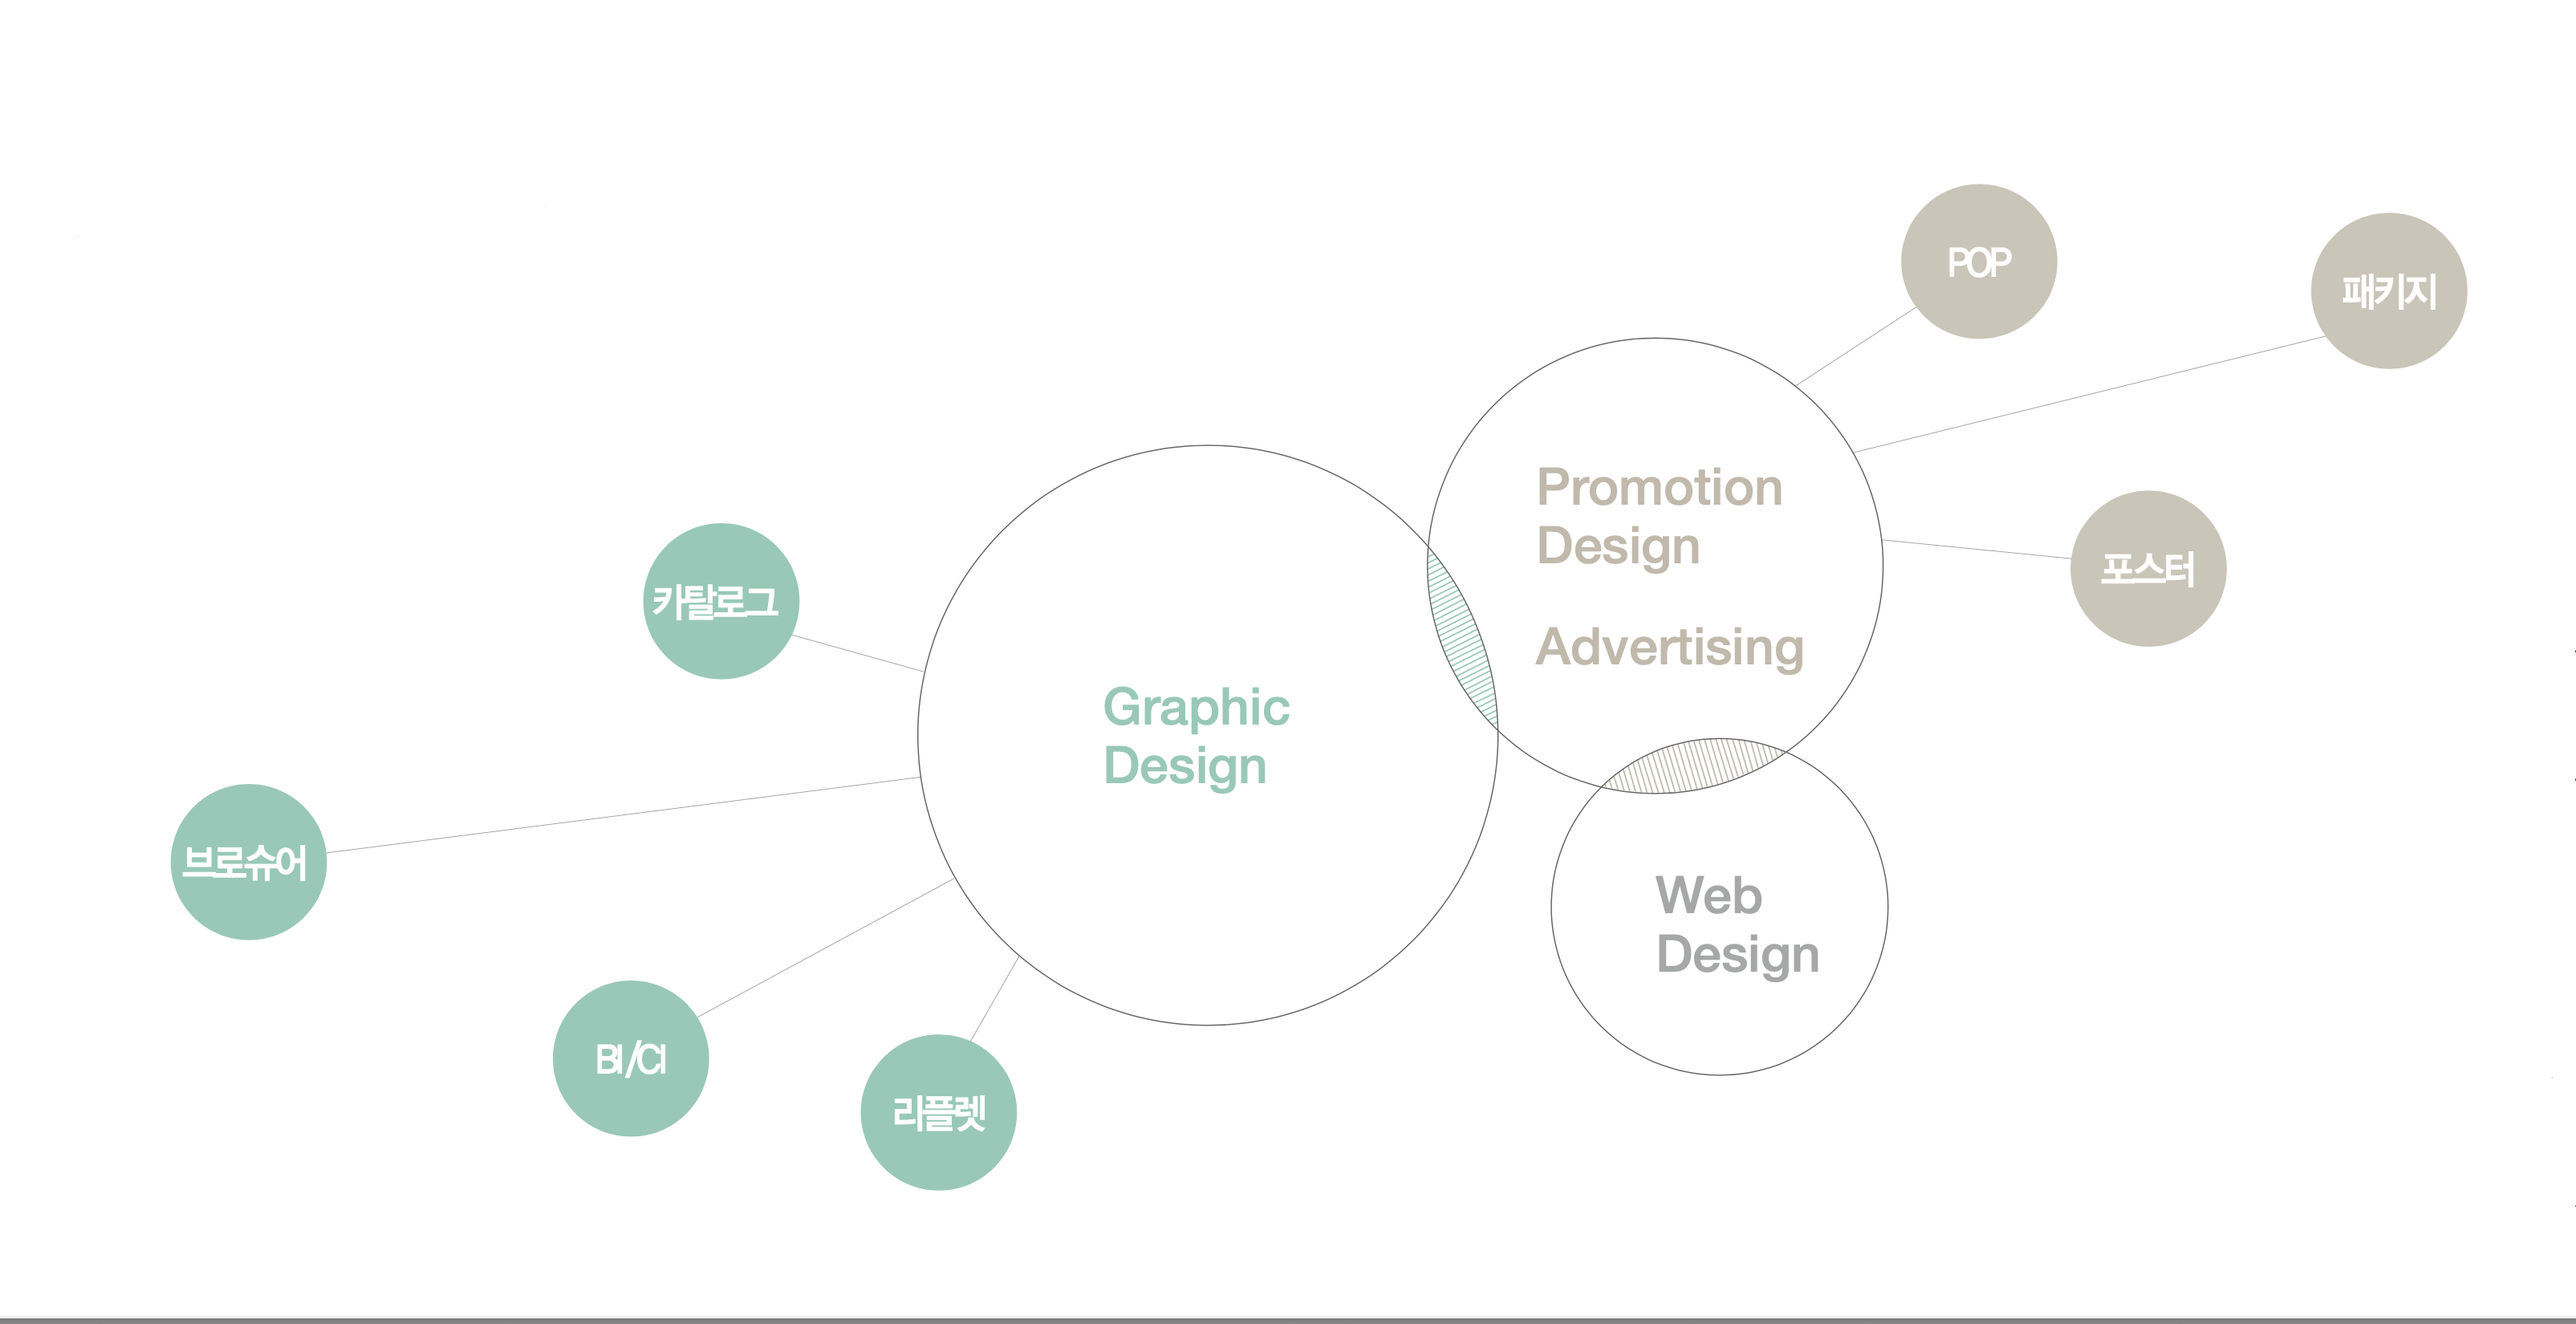
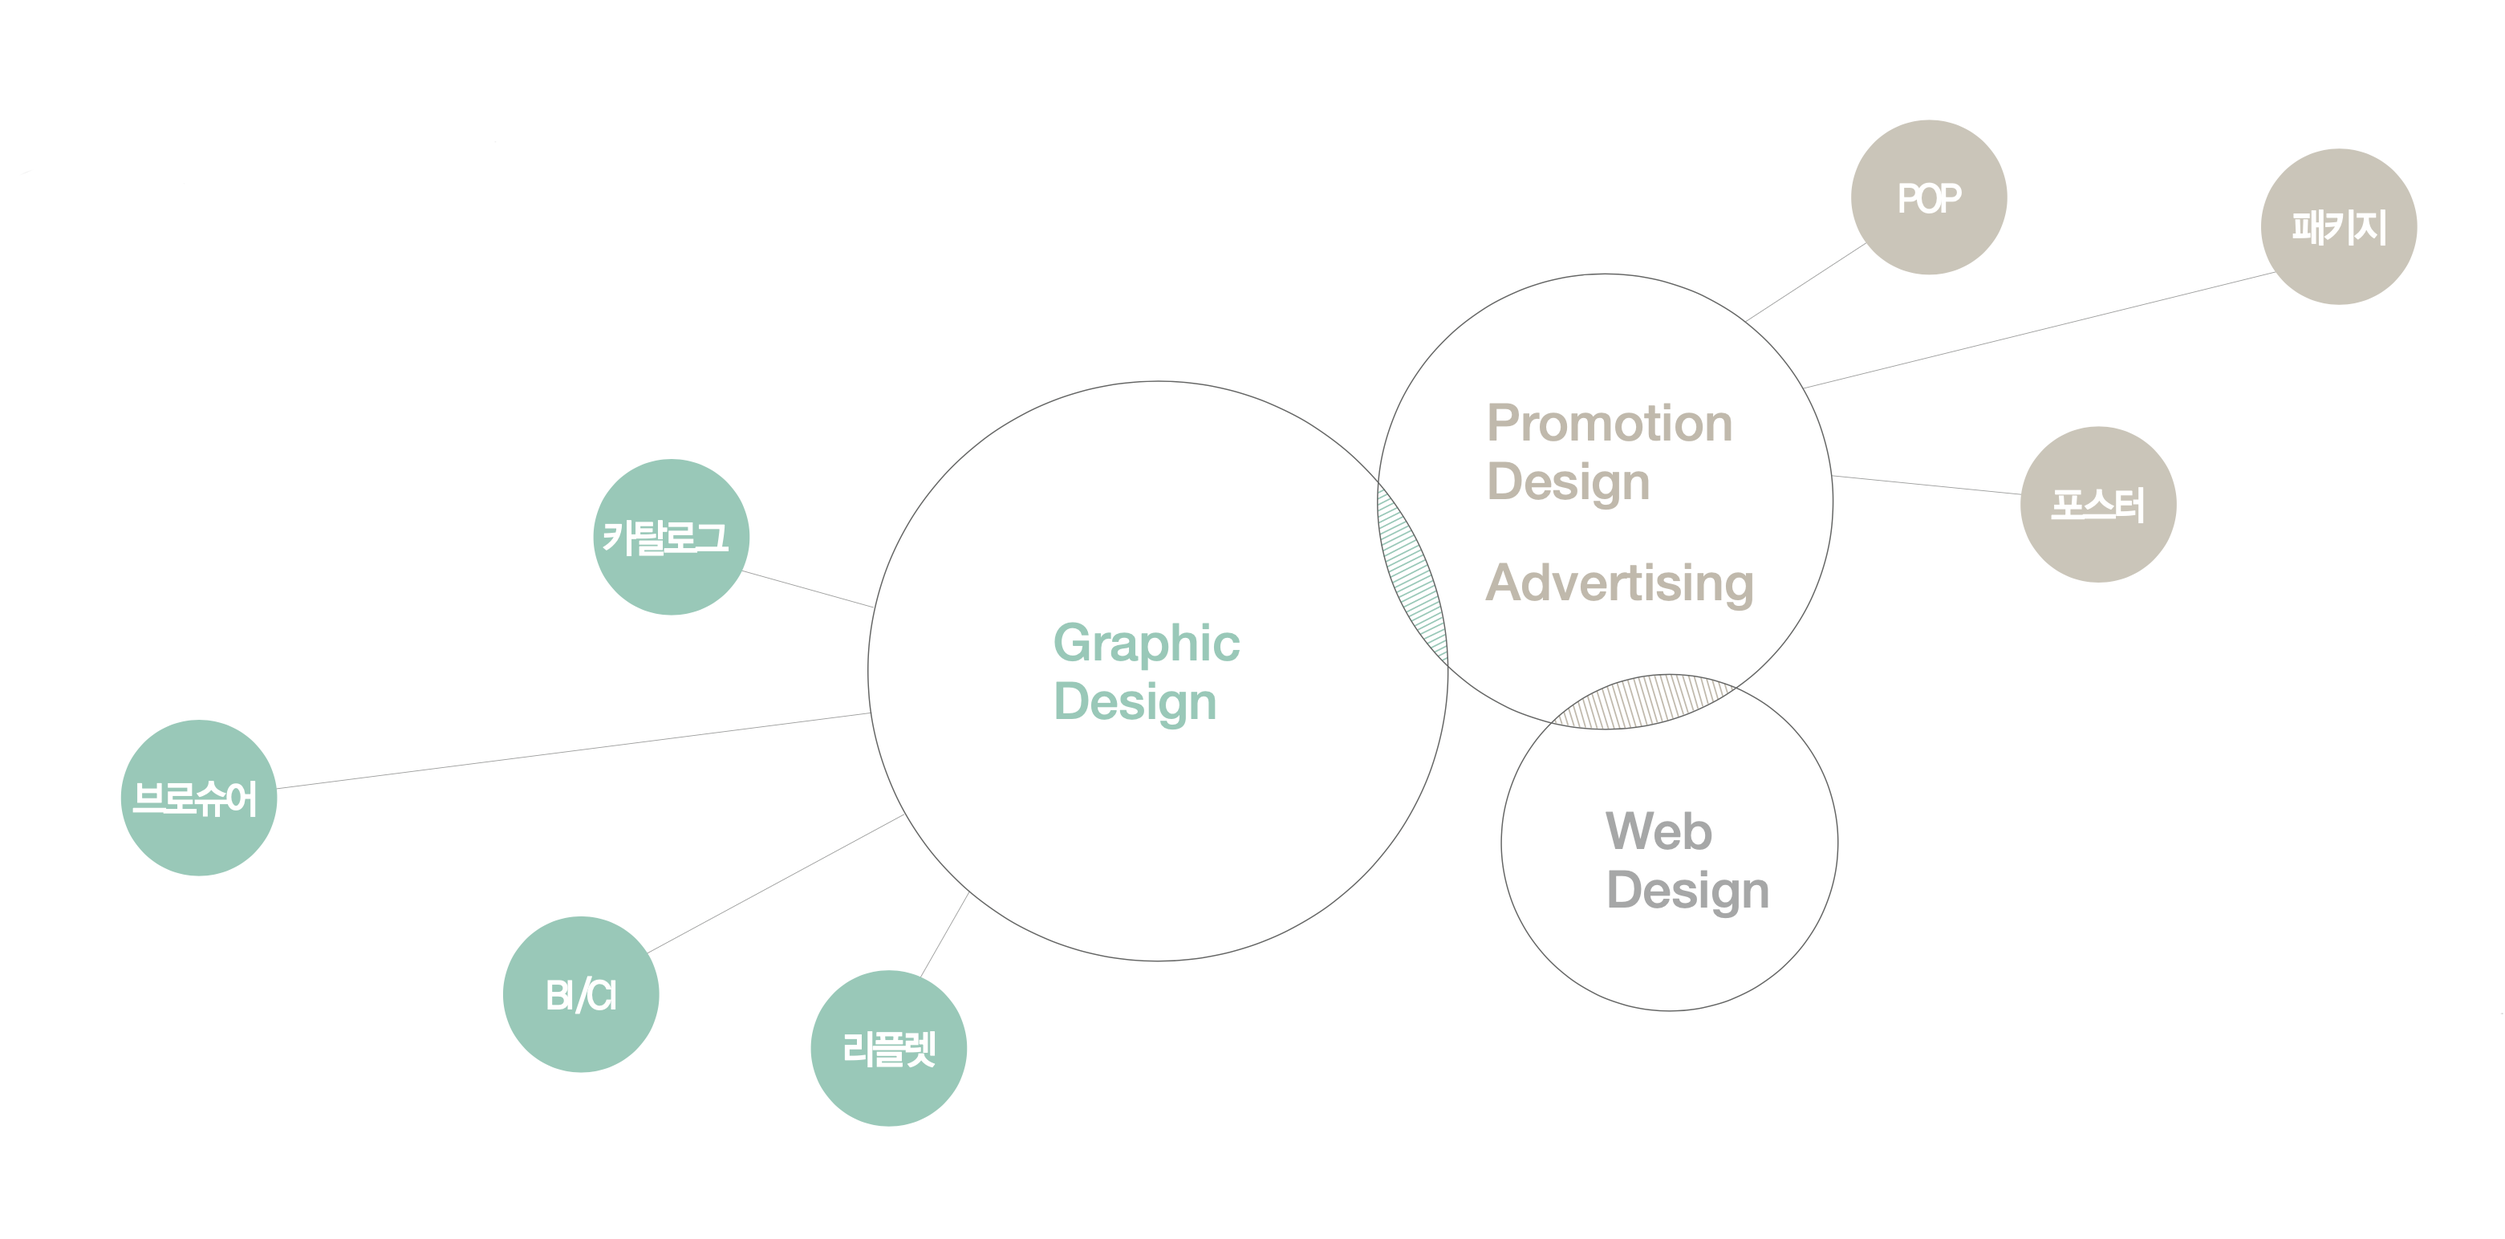
레이아웃 수정

diff --git a/style.css b/style.css
@@ -51,53 +51,131 @@ nav a:hover {
 section {
     width: 100%;
     max-width: 1400px;
-    margin: 0 auto;
-    padding: 80px 40px;  /* 위아래 80px, 좌우 40px 여백 */
+    margin: 0 auto 32px;
+    padding: 56px 40px 64px;
     box-sizing: border-box;
-    display: flex;     /* 내용을 정렬하기 위해 flex 사용 */
-    flex-direction: column; /* 내용을 세로로 쌓기 */
-    align-items: center;    /* 가로 기준 가운데 정렬 */
-    background: #fff;
-}
-#hero {
-    /* 1. 배경 설정: 1번 이미지 경로를 정확히 입력하세요 */
-    background-image: url('image/hero.png'); 
-    background-repeat: no-repeat;
-    background-position: center bottom; /* 이미지를 아래쪽에 배치 */
-    background-size: contain; /* 이미지 전체가 다 보이도록 */
-    
-    /* 2. 높이 및 레이아웃 */
-    min-height: 800px; /* 공간을 넓게 확보 */
     display: flex;
-    align-items: flex-start; /* 텍스트를 위쪽으로 배치 */
-    padding-top: 80px; /* 상단 네비게이션과의 간격 */
-    background-color: #ffffff; /* 배경색 */
+    flex-direction: column;
+    align-items: center;
+    justify-content: flex-start; /* 중요: 가운데 말고 위에서 시작 */
+    background: #fff;
+    border-radius: 16px;
+}
+
+section h2 {
+    margin: 0 0 32px;
+}
+
+.section-title {
+    text-align: center;      /* 글자를 중앙으로 */
+    font-size: 1.5rem;       /* 크기를 크게 (원하는 대로 조절 가능) */
+    font-weight: 800;        /* 아주 두껍게 */
+    margin-top: 100px;       /* 위쪽 섹션과의 간격 */
+    margin-bottom: 50px;     /* 아래쪽 본문과의 간격 */
+    letter-spacing: 2px;     /* 글자 사이 간격을 살짝 벌려 고급스럽게 */
+    text-transform: uppercase; /* 소문자로 써도 대문자로 표시되게 함 */
+    color: #333;             /* 글자 색상 */
+}
+
+#hero {
+    padding: 110px 40px 130px;  /* 아래 여백을 더 크게 */
+    background-color: #ffffff; /* 배경색 (원하는 색으로 변경 가능) */
 }
 .hero-container {
-    width: 100%;
-    max-width: 1200px; /* 화면이 너무 커져도 텍스트가 너무 옆으로 가지 않게 제한 */
-    margin: 0 auto; /* 가운데 정렬 */
-    padding: 0 40px; /* 양옆 여백 */
+    max-width: 1200px;
+    margin: 0 auto;
+    text-align: left; /* 텍스트를 왼쪽 정렬 (중앙 정렬을 원하면 center로 변경) */
+    padding: 0 20px;
 }
 
 .hero-text {
-    text-align: left; /* 텍스트 왼쪽 정렬 */
+    font-size: 3.1rem;    /* 텍스트 크기를 크게 키움 */
+    font-weight: 600;     /* 두껍게 */
+    line-height: 1.3;     /* 줄 간격 */
+    margin-bottom: 60px;  /* 이미지 그룹과의 간격 */
+    letter-spacing: -1px; /* 글자 간격을 살짝 좁혀서 세련되게 */
+    color: #5a5a5a;   /* 진한 회색 */
 }
 
-.hero-text h2 {
-    font-size: 2.5rem;
-    margin-bottom: 20px;
-    font-weight: bold;
-    color: #333;
+.point-color {
+    color: #e9686f;       /* 원하는 포인트 색상 (예: 파란색) */
+    font-weight: 700;
+    margin-left: 10px;    /* 디자이너 단어와 이름 사이 간격 */
 }
 
-.hero-text p {
-    font-size: 1.2rem;
-    line-height: 1.8;
-    color: #555;
+/* 이미지 2개 가로 배치 */
+.hero-image-group {
+  display: flex;
+  justify-content: space-between;
+  align-items: flex-end;
+  transform: scale(1.13);
+  transform-origin: center top;
 }
+
+.hero-image-group img {
+    width: calc(50% - 1px); /* 간격을 제외한 딱 절반 크기 */
+    height: auto;            /* 이미지 비율 유지 */
+    object-fit: cover;       /* 이미지가 찌그러지지 않게 */
+}
+
 /* 섹션마다 배경색을 다르게 해서 구분해보기 */
-#about { background-color: #f4f4f4; }
+#about {
+    padding: 36px 40px 54px;
+}
+.about-inner {
+  max-width: 1200px;
+  margin: 0 auto;
+  padding: 0 40px; /* 좌우 여백 */
+}
+
+.section-title {
+  font-size: 2.5rem;   /* 기존 5rem 기준 약 15% 감소 */
+  font-weight: 700;
+  color: #65748e;       /* 원하는 색상 */
+  text-align: center;
+  margin-bottom: 3rem;
+  letter-spacing: -0.02em;
+}
+/* 가로 배치를 위한 플렉스 박스 */
+.about-content {
+  display: grid;
+  grid-template-columns: 1fr; /* 한 줄 한 칸 */
+  row-gap: -10px; /* 텍스트와 이미지 사이 간격 */
+}
+/* 텍스트 박스: 왼쪽에서 적당한 너비 차지 */
+.about-text-box {
+  max-width: 760px;
+  margin-left: -4px;   /* 기존처럼 살짝 왼쪽 */
+  margin-top: 30px;    /* 텍스트를 아래로 내리기 */
+  position: relative;
+  z-index: 2;          /* 겹칠 때 텍스트가 위로 */
+}
+
+.about-text-box p {
+  font-size: 1.3rem;     /* 기존보다 2px 키우기 (예: 32 -> 34) */
+  line-height: 1.6;
+}
+
+.about-image-box {
+  margin-top: -40px;   /* 이미지를 위로 올리기 */
+  position: relative;
+  z-index: 1;
+}
+
+.about-main-img {
+  display: block;
+  width: 110%;
+  height: auto;
+  margin-left: -5%;
+}
+
+#skills {
+    padding: 48px 40px 56px;
+}
+
+#works {
+    padding: 48px 40px 56px;
+}
 
 /* 4. WORKS 이미지 크기 조절 (이미지가 너무 작게 나오지 않게) */
 .works-item img {
@@ -254,6 +332,10 @@ section {
 .lang-text {
     font-size: 12px;
     color: #57606a;
+}
+
+#contact {
+    padding: 48px 40px 56px;
 }
 
 /* Contact 폼 스타일 */

diff --git a/index.html b/index.html
@@ -22,49 +22,59 @@
     <main>
         <section id="hero"> <!-- 나를 소개하는 첫 화면 -->
             <div class="hero-container">
-                <div class="hero-text">
-                    <h2>기획형 디자이너 son hee in입니다.</h2>
-                    <p>광고·마케팅부터 브랜드 디자인, UX/UI까지 다양한 분야에서 쌓은 경험을 바탕으로 <br>
-                        소비자와 브랜드를 연결하는 커뮤니케이션 디자인을 만들어 왔습니다.<br>
-                        현재는 코디세이 AI 올인원 과정을 통해 AI 기술을 접목한 <br>
-                        UX/UI와 새로운 디지털 경험을 설계하는 크리에이터로 역량을 확장하고 있습니다.
-                    </p>
+                <h1 class="hero-text">
+                    브랜드의 가치를 시각적 언어로 풀어내는<br>
+                    기획형 디자이너<span class="point-color">SON HEE JIN</span>입니다.
+                </h1>
+                <!-- 이미지 2개 가로 배치를 위한 컨테이너 -->
+                 <div class="hero-image-group">
+                    <img src="image/WORKS2.png" alt="디자인 작업물1">
+                    <img src="image/WORKS6.png" alt="디자인 작업물2">
+                 </div>
+            </div>
+        </section>
+        <section id="about">
+            <div class="about-inner">
+                <h2 class="section-title">ABOUT</h2>
+
+                <div class="about-content">
+                <div class="about-text-box">
+                    <p>광고·마케팅부터 브랜드 디자인, UX/UI까지 다양한 분야에서 쌓은 경험을 바탕으로</p>
+                    <p>소비자와 브랜드를 연결하는 커뮤니케이션 디자인을 만들어 왔습니다.</p>
+                    <p>현재는 코디세이 AI 올인원 과정을 통해 AI 기술을 접목한</p>
+                    <p>UX/UI와 새로운 디지털 경험을 설계하는 크리에이터로 역량을 확장하고 있습니다.</p>
+                </div>
+
+                <div class="about-image-box">
+                    <img src="image/hero.png" alt="디자인 역량 소개 이미지" class="about-main-img">
+                </div>
                 </div>
             </div>
         </section>
-        <section id="about"> <!-- 상세 소개 -->
-            <h2>ABOUT</h2>
-            <img src="profile.jpg" alt="프로필 사진">
-            <p>
-                안녕하세요! 저는 사용자 중심의 인터페이스를 고민하는 디자이너 Jin입니다.<br>
-                복잡한 문제를 단순하고 아름답게 해결하는 것을 좋아합니다.
-            </p>
-        </section>
+
         <section id="skills"> <!-- 기술 스택 -->
-            <h2>SKILLS</h2>
-            <ul>
-                <li><strong>Design:</strong>Adobe Photoshop, Illustrator</li>
-                <li><strong>Web design:</strong> HTML, CSS, JavaScript</li>
-                <li><strong>Tools:</strong> Notion, Git</li>
-            </ul>
+            <div class="container">
+                <h2 class="section-title">SKILLS</h2>
+                <ul>
+                    <li><strong>Design:</strong>Adobe Photoshop, Illustrator</li>
+                    <li><strong>Web design:</strong> HTML, CSS, JavaScript</li>
+                    <li><strong>Tools:</strong> Notion, Git</li>
+                </ul>
+            </div>
         </section>
         <section id="design-works"> <!-- 프로젝트 모음 -->
-            <h2>WORKS</h2>
-            <div class="works-item">
-                <img src="https://via.placeholder.com/300x200" alt="프로젝트 1">
-                <h3>프로젝트 제목 1</h3>
-                <p>프로젝트에 대한 짧은 설명입니다. 어떤 문제를 해결했는지 적어보세요.</p>
-            </div>
-
-            <div class="works-item">
-                <img src="https://via.placeholder.com/300x200" alt="프로젝트 1">
-                <h3>프로젝트 제목 1</h3>
-                <p>프로젝트에 대한 짧은 설명입니다. 어떤 문제를 해결했는지 적어보세요.</p>
+            <div class="container">
+                <h2 class="section-title">WORKS</h2>
+                <div class="works-item">
+                    <img src="https://via.placeholder.com/300x200" alt="프로젝트 1">
+                    <h3>프로젝트 제목 1</h3>
+                    <p>프로젝트에 대한 짧은 설명입니다. 어떤 문제를 해결했는지 적어보세요.</p>
+                </div>
             </div>
         </section>
         <section id="projects">
             <div class="projects-header">
-                <h2>GitHub Repositories</h2>
+                <h2 class="section-title">GitHub Repositories</h2>
                 <a href="#">Customize your pins</a>
             </div>
             <!-- 로딩 메시지 -->
@@ -74,7 +84,7 @@
             </div>
         </section>
         <section id="contact">
-            <h2>CONTACT</h2>
+            <h2 class="section-title">CONTACT</h2>
             <p>함께 일하고 싶거나 궁금한 점이 있다면 메시지를 남겨주세요!</p>
             <form id="contact-form">
                 <input type="text" id="name" placeholder="이름" required>
